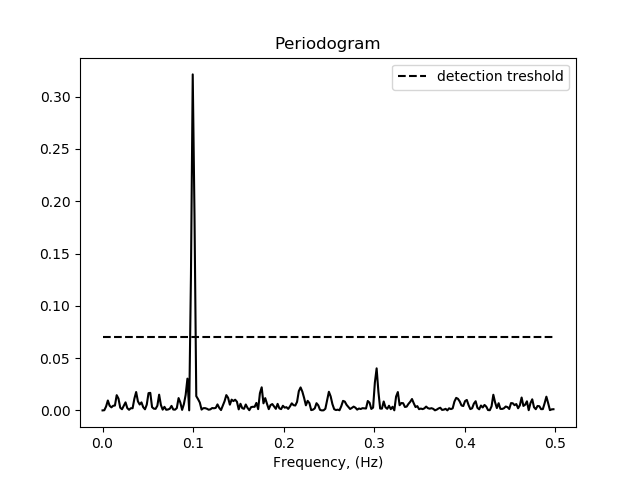
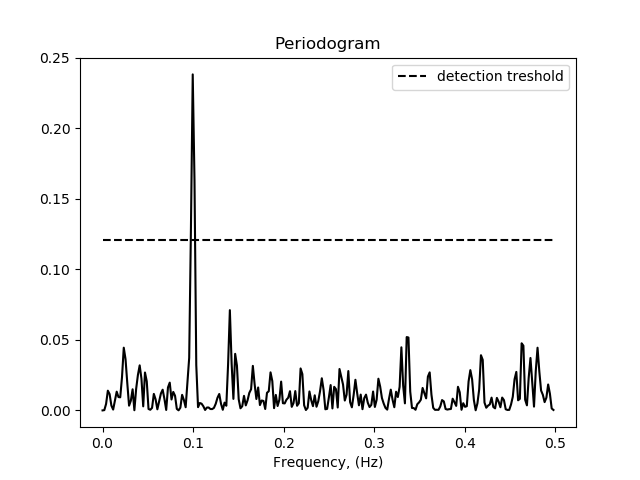
try sum of dat

diff --git a/main.py b/main.py
@@ -15,7 +15,14 @@ from lib import func
 from lib import default_const as data
 
 
-import conf
+import fnames
+
+
+def gen_number():
+    n = 0
+    while True:
+        yield n
+        yield n + 1 
 
 
 
@@ -38,7 +45,7 @@ def main():
         color = 'black',
     )
 
-    plot_raw_series.savefig(conf.IMG_DIR + '01_raw_series')
+    plot_raw_series.savefig(fnames.plot('raw_series'))
 
     graph.clf()
 
@@ -67,7 +74,7 @@ def main():
         color = 'black',
     )
 
-    plot_centred_series.savefig(conf.IMG_DIR + '02_centred_series')
+    plot_centred_series.savefig(fnames.plot('centred_series'))
 
     graph.clf()
 
@@ -117,7 +124,7 @@ def main():
 
     graph.legend()
 
-    plot_periodogram.savefig(conf.IMG_DIR + '03_periodogram')
+    plot_periodogram.savefig(fnames.plot('periodogram'))
 
     graph.clf()
 
@@ -153,7 +160,7 @@ from lib import func
 from lib import default_const as data
 
 
-import conf
+import fnames
 
 
 
@@ -176,7 +183,7 @@ def main():
         color = 'black',
     )
 
-    plot_raw_series.savefig(conf.IMG_DIR + '01_raw_series')
+    plot_raw_series.savefig(fnames.plot('raw_series'))
 
     graph.clf()
 
@@ -205,7 +212,7 @@ def main():
         color = 'black',
     )
 
-    plot_centred_series.savefig(conf.IMG_DIR + '02_centred_series')
+    plot_centred_series.savefig(fnames.plot('centred_series'))
 
     graph.clf()
 
@@ -255,7 +262,7 @@ def main():
 
     graph.legend()
 
-    plot_periodogram.savefig(conf.IMG_DIR + '03_periodogram')
+    plot_periodogram.savefig(fnames.plot('periodogram'))
 
     graph.clf()
 
@@ -276,7 +283,7 @@ def main():
         color = 'black',
     )
 
-    plot_correlogram.savefig(conf.IMG_DIR + '04_correlogram')
+    plot_correlogram.savefig(fnames.plot('correlogram'))
 
     graph.clf()
 
@@ -294,11 +301,11 @@ def main():
 
 ### computing smoothed correloram
     
-    fffttt = Fourier(C_m)
+    FFT_corr_w = Fourier(C_m)
 
     C_0 = C_m[0]
 
-    D_j = np.array([2 * fffttt[j].real - C_0 for j in range(N1)])
+    D_j = np.array([2 * x.real - C_0 for x in FFT_corr_w])
 
     D_j /= N_Tukey
 
@@ -316,7 +323,7 @@ def main():
         color = 'black',
     )
 
-    plot_smooth_period.savefig(conf.IMG_DIR + '05_smoothed_periodogram')
+    plot_smooth_period.savefig(fnames.plot('smoothed_periodogram'))
 
     graph.clf()
 

diff --git a/fnames.py b/fnames.py
@@ -1,0 +1,16 @@
+# UTF-8, *nix
+
+# name of dir for plots
+IMG_DIR = './plots/'
+
+def file_numeration():
+    n = 0
+    while True:
+        yield '{:02d}'.format(n + 1) 
+        n += 1
+
+n = file_numeration()
+
+# plot filename format: 01_name.png
+def plot(name):
+    return IMG_DIR + next(n) + '_' + name

diff --git a/lib/default_const.py b/lib/default_const.py
@@ -9,7 +9,7 @@ alpha = 0.1
 beta  = 0.05   
 
 ### SNR (signal-to-noise)
-gamma = 0.50   
+gamma = 0.30   
 
 ### harmonic component
 A1    = 1.0  # amplitude
